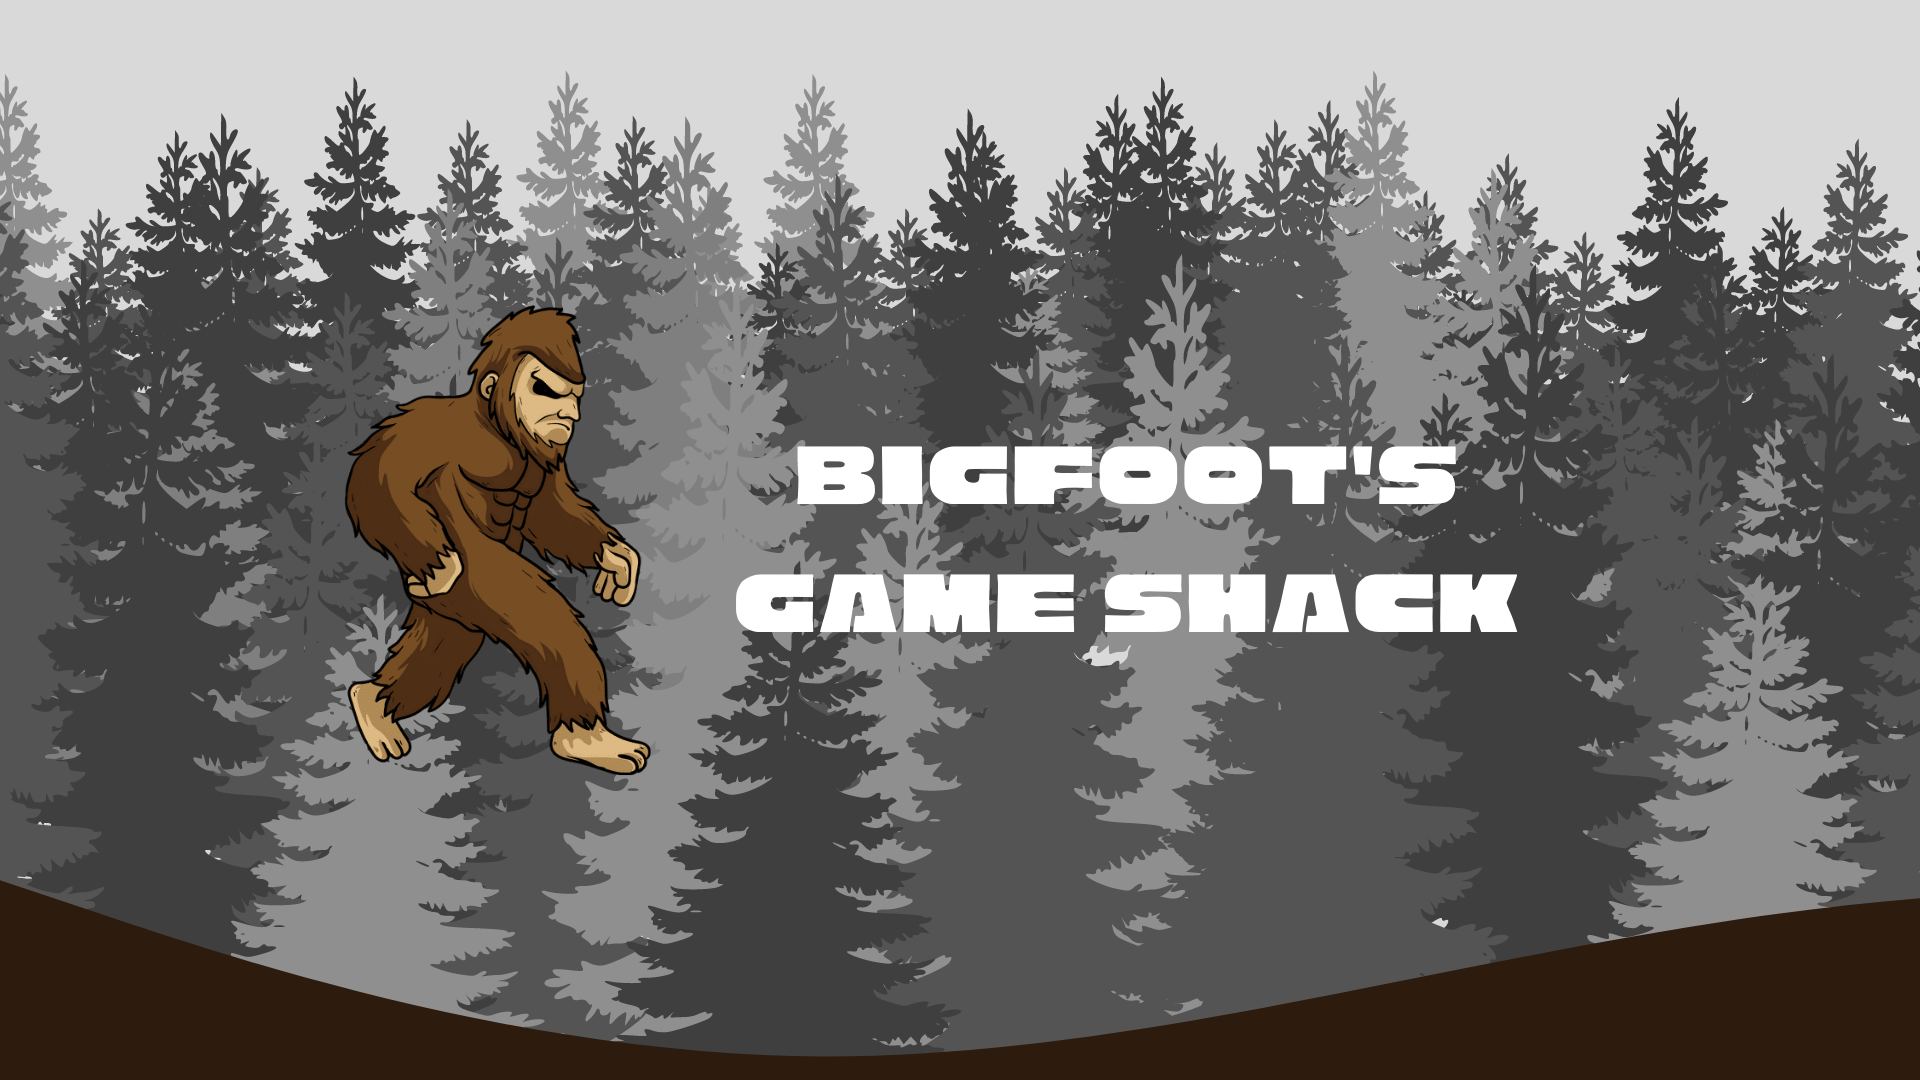
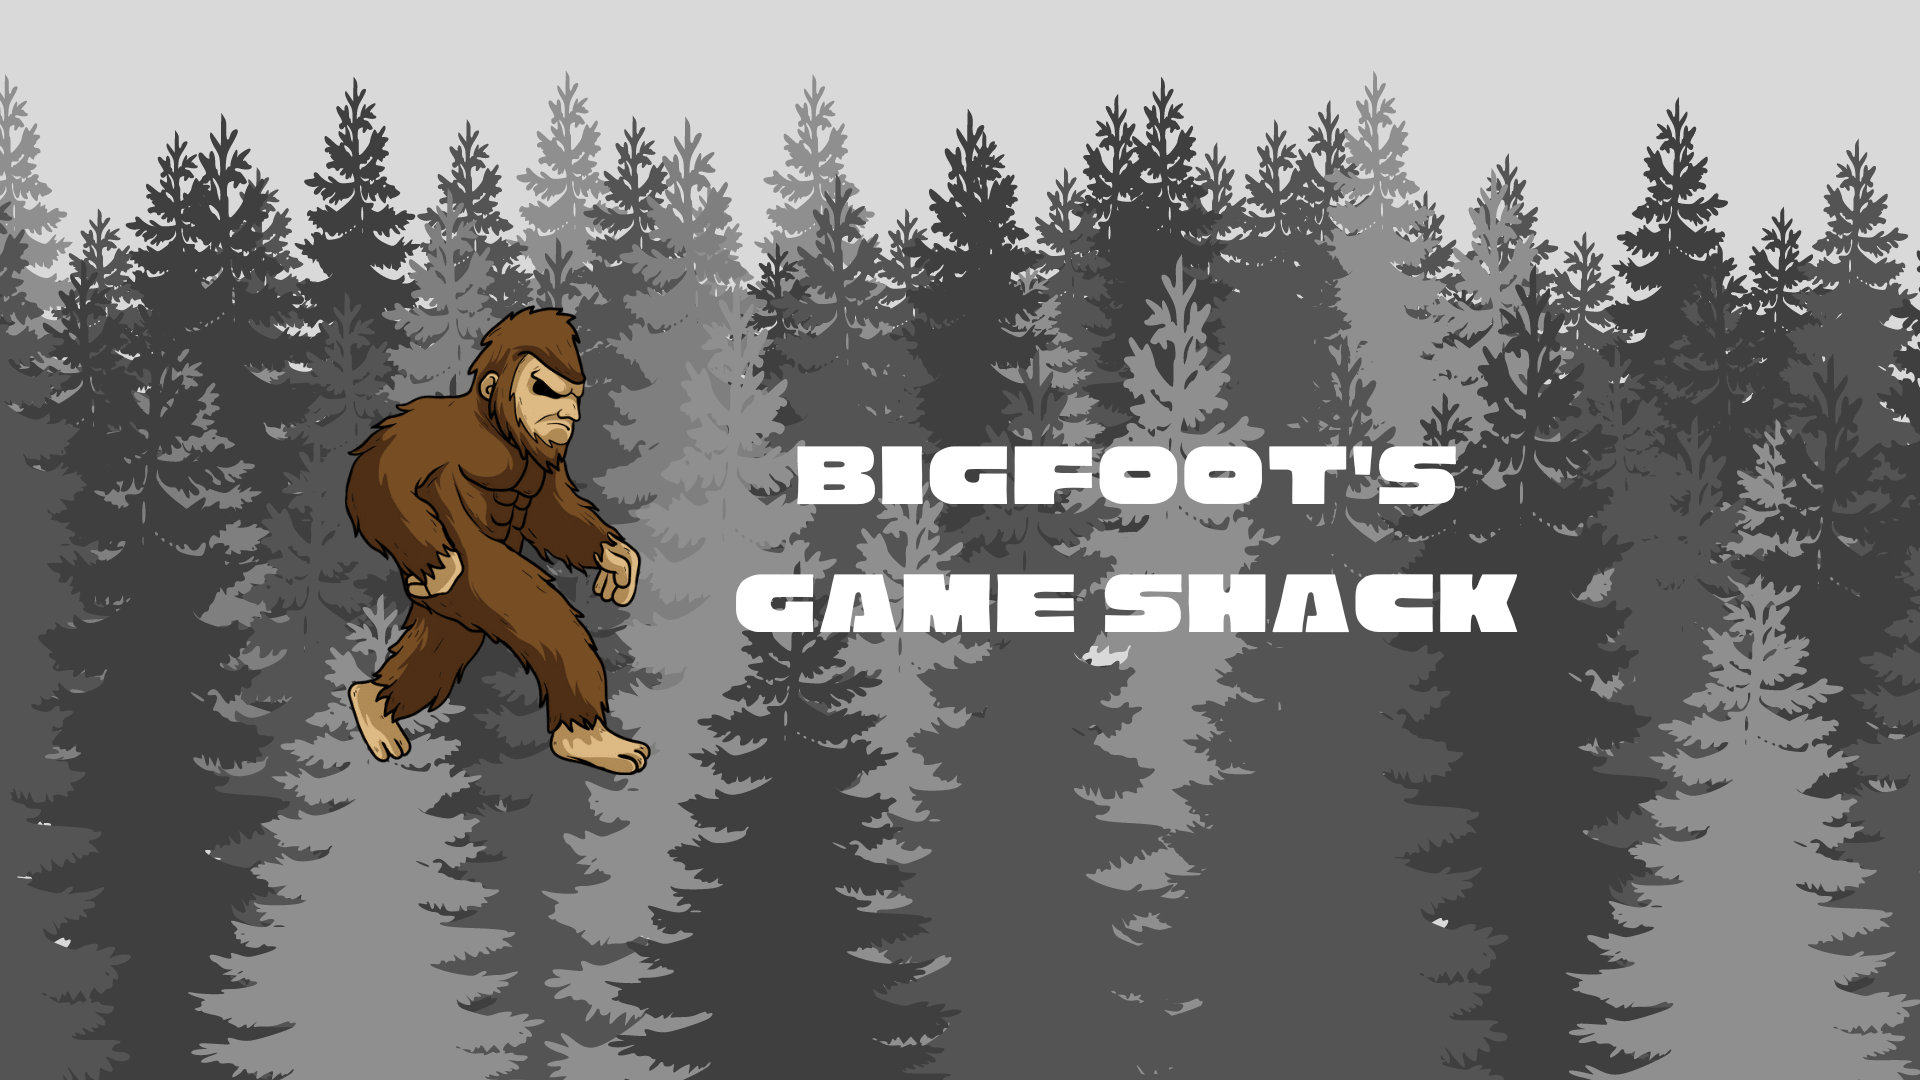
gg

Changed region(s): [[0.0, 0.825, 1.0, 1.0]]

diff --git a/index.html b/index.html
@@ -107,9 +107,9 @@
             Welcome To Bigfoot's Game Shack!
         </div>-->
         <div class="contentbelownav">
-<div style="text-align: center;"class="alert"> Thanks for using Bigfoot's Game Shack! </div>
+<div class="alert"> Thanks for using Bigfoot's Game Shack! </div>
 
-            <img style="width: 100vw; max-width:100vw;" src="images/1.png" alt="background">
+            <img style="background-image:url(images/1.png); background-attachment: fixed;background-position: center;background-repeat: no-repeat;background-size: cover;width: 100vw; max-width:100vw;" src="images/wave1-2.png" alt="background">
             </section>
             <!---->
             <div class="main">
